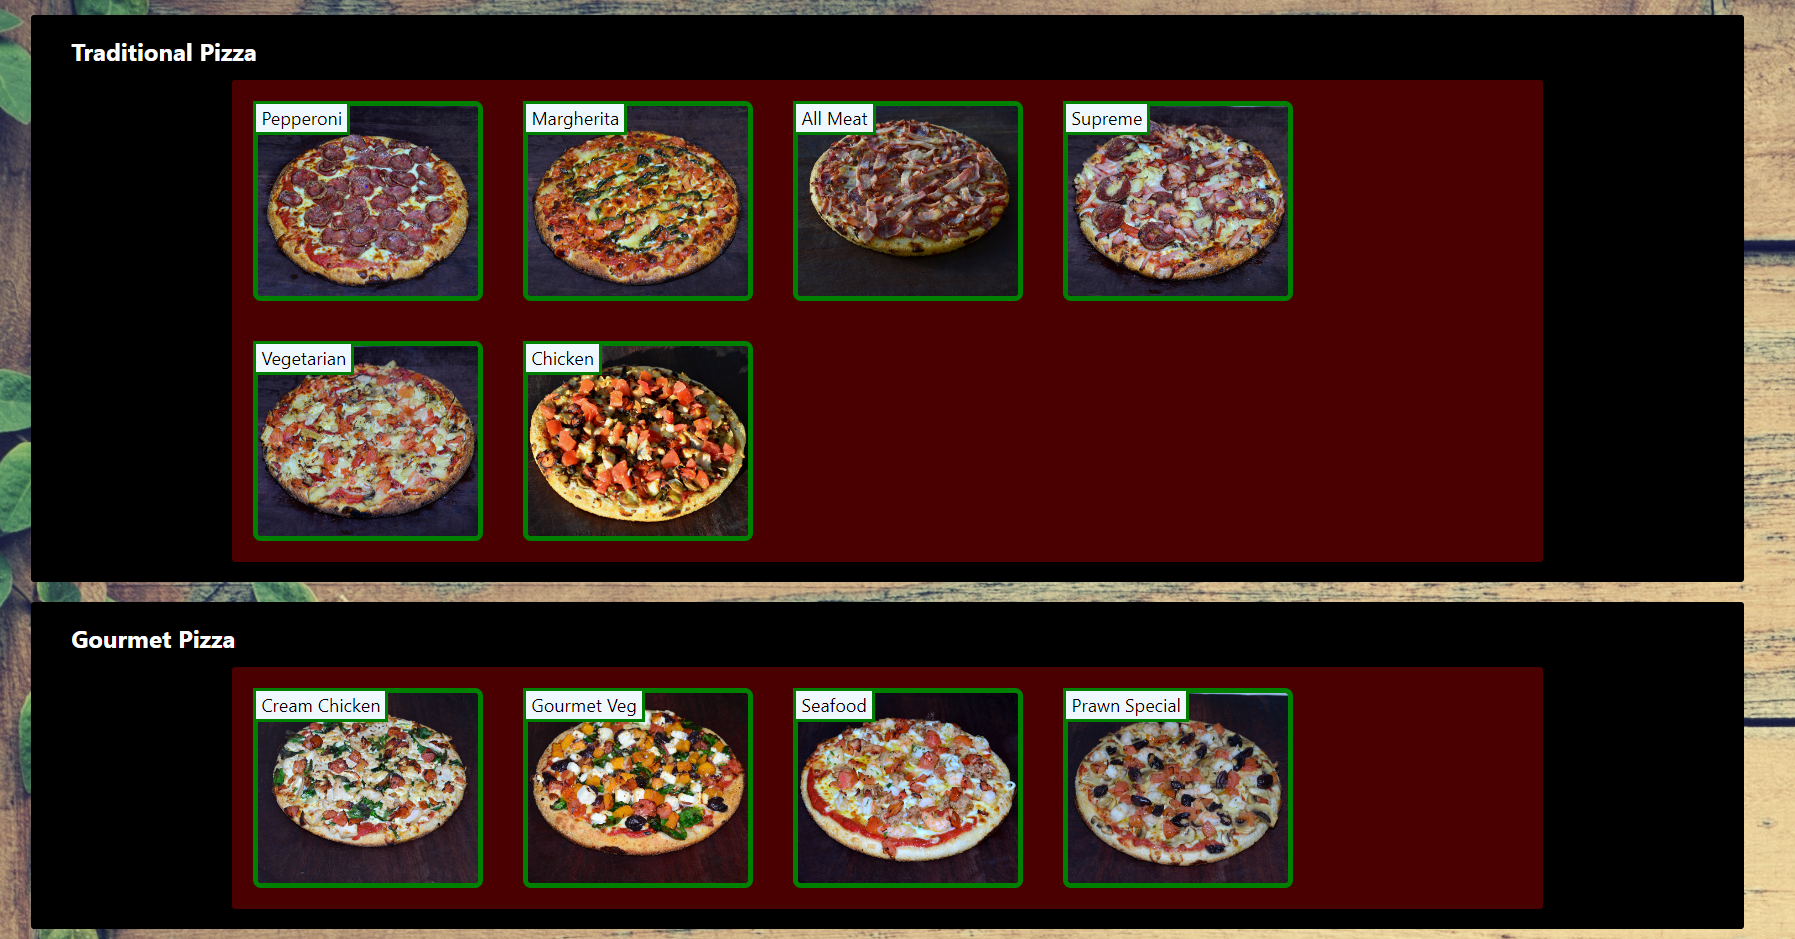
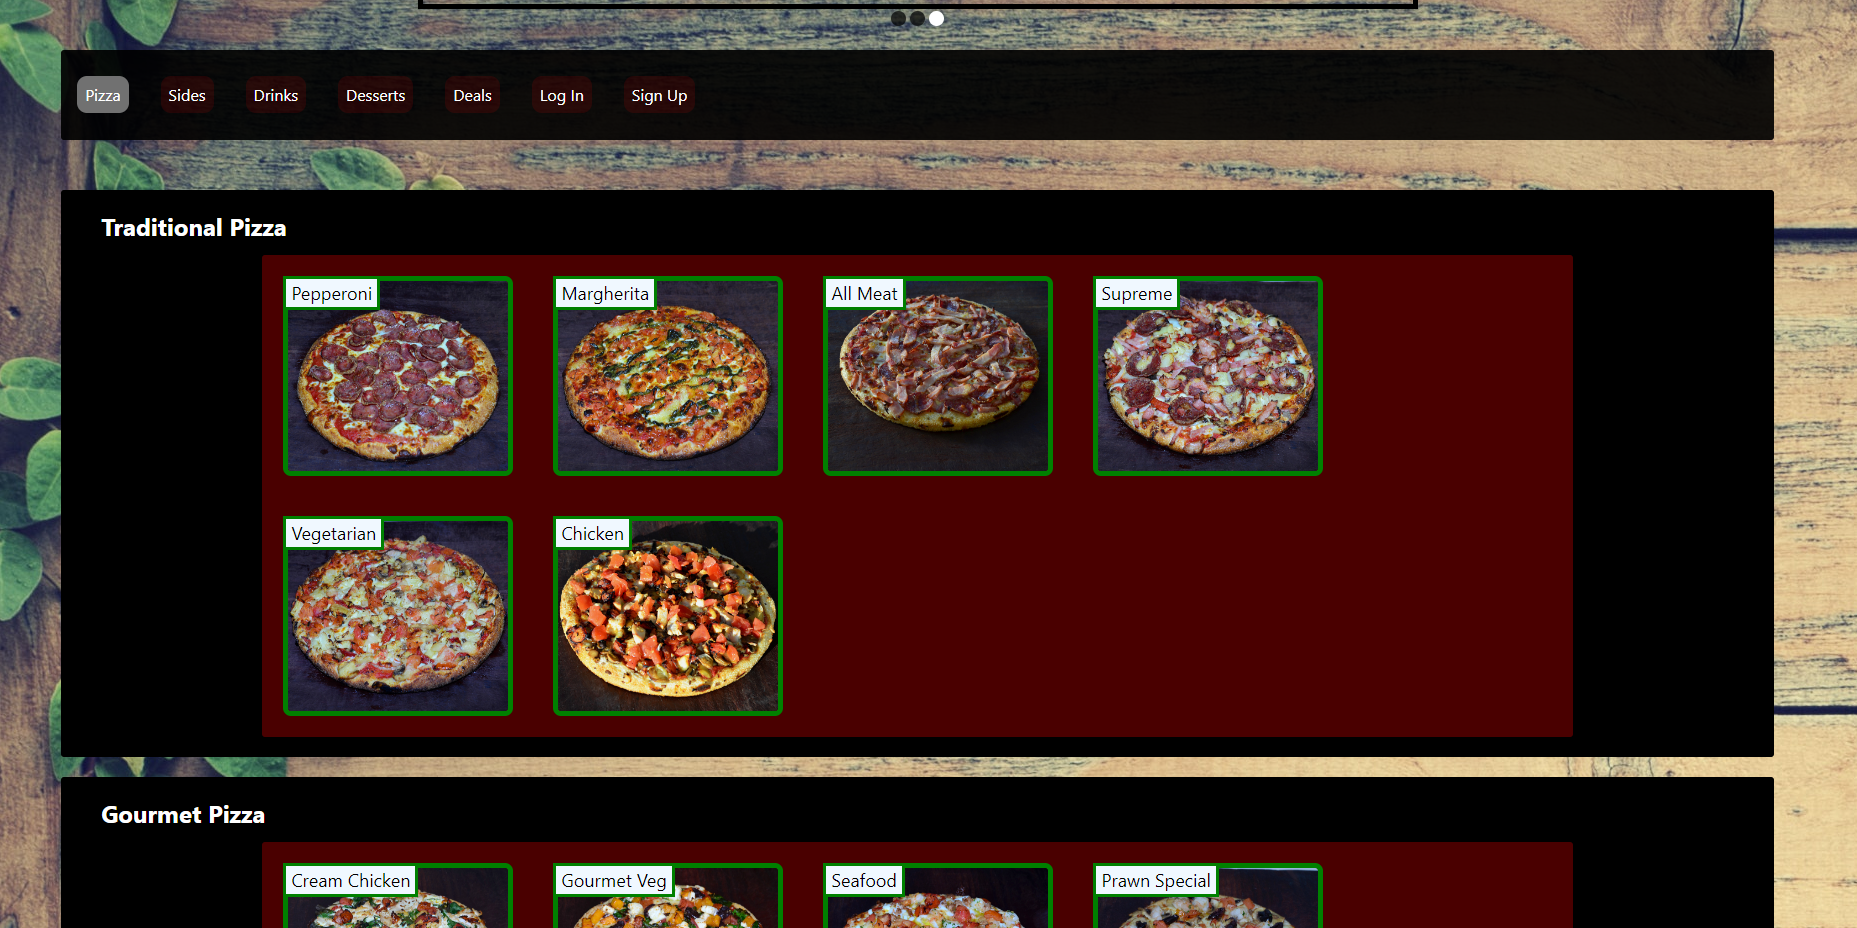
navbar style update, added capture images

diff --git a/client/src/pages/Login.js b/client/src/pages/Login.js
@@ -65,7 +65,7 @@ const Login = (props) => {
                         />
                         <input
                         className="form-input"
-                        placeholder="******"
+                        placeholder="Your Password"
                         name="password"
                         type="password"
                         value={formState.password}

diff --git a/client/src/pages/SignUp.js b/client/src/pages/SignUp.js
@@ -74,7 +74,7 @@ const Signup = () => {
                 />
                 <input
                   className="form-input"
-                  placeholder="******"
+                  placeholder="Your Password"
                   name="password"
                   type="password"
                   value={formState.password}

diff --git a/client/src/components/Navbar.js b/client/src/components/Navbar.js
@@ -38,7 +38,7 @@ function Home() {
           </NavLink>
         </li>
         <li className="logSign">
-          <NavLink exact to="/signup" activeClassName="active">
+          <NavLink exact to="/Sign Up" activeClassName="active">
             Sign Up
           </NavLink>
         </li>
